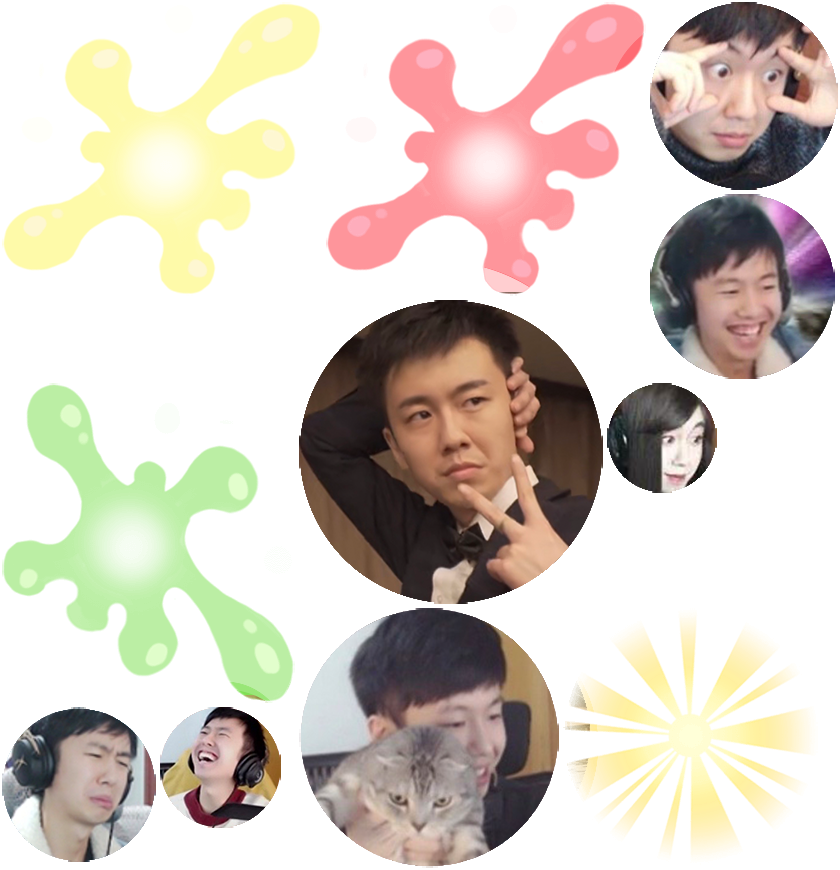
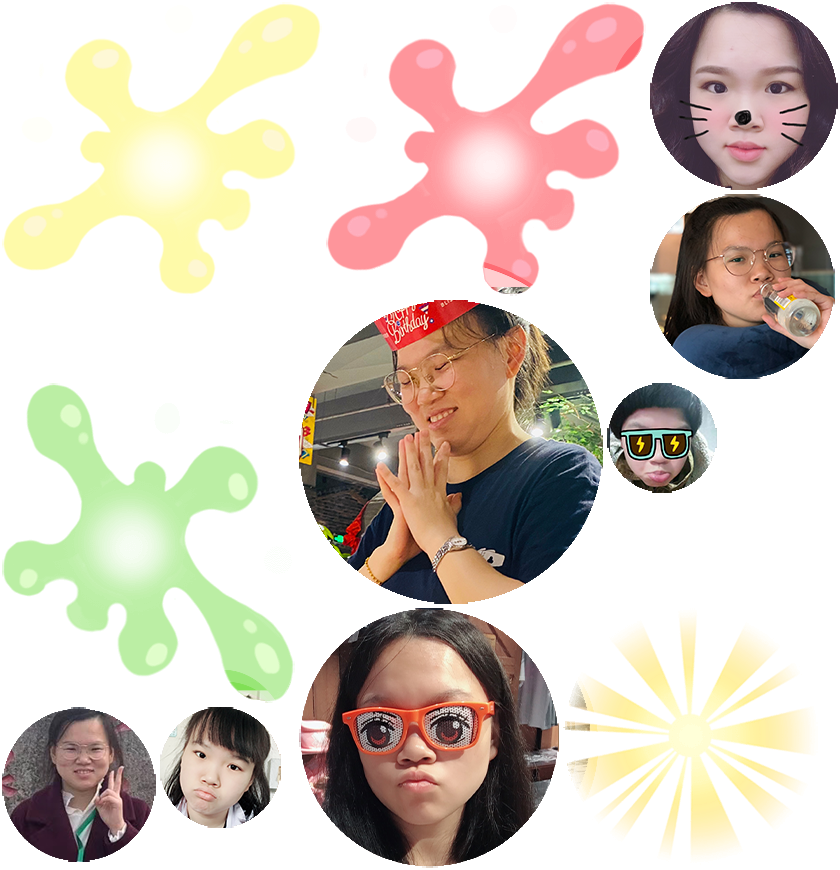
nitial commit

Changed region(s): [[0.0, 0.0, 1.0, 1.0]]

diff --git a/index.html b/index.html
@@ -4,7 +4,7 @@
 <head>
     <meta charset="utf-8">
 
-    <title>合成大豆腐</title>
+    <title>合成王茗悦</title>
 
     <!--http://www.html5rocks.com/en/mobile/mobifying/-->
     <meta name="viewport" content="width=device-width,user-scalable=no,initial-scale=1, minimum-scale=1,maximum-scale=1" />
@@ -109,7 +109,7 @@
             //        console.log("window.navigator.language",window.navigator.language);
 
             if (window.navigator.language == "zh-CN" || window.navigator.language == "zh-cn") {
-                document.title = "合成大豆腐";
+                document.title = "合成王茗悦";
             } 
 
 
